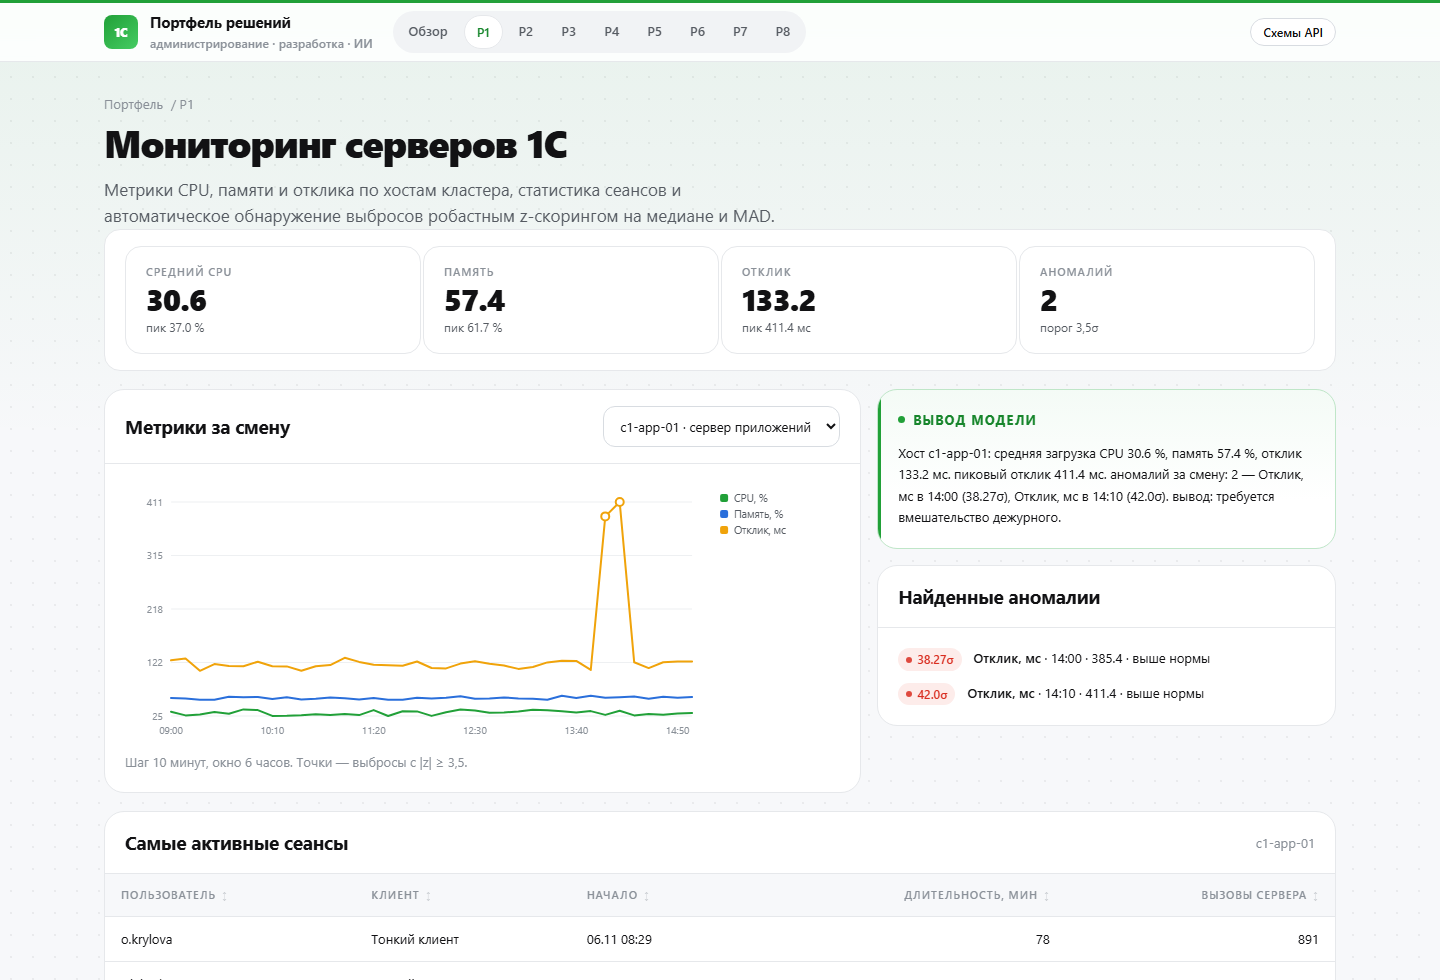
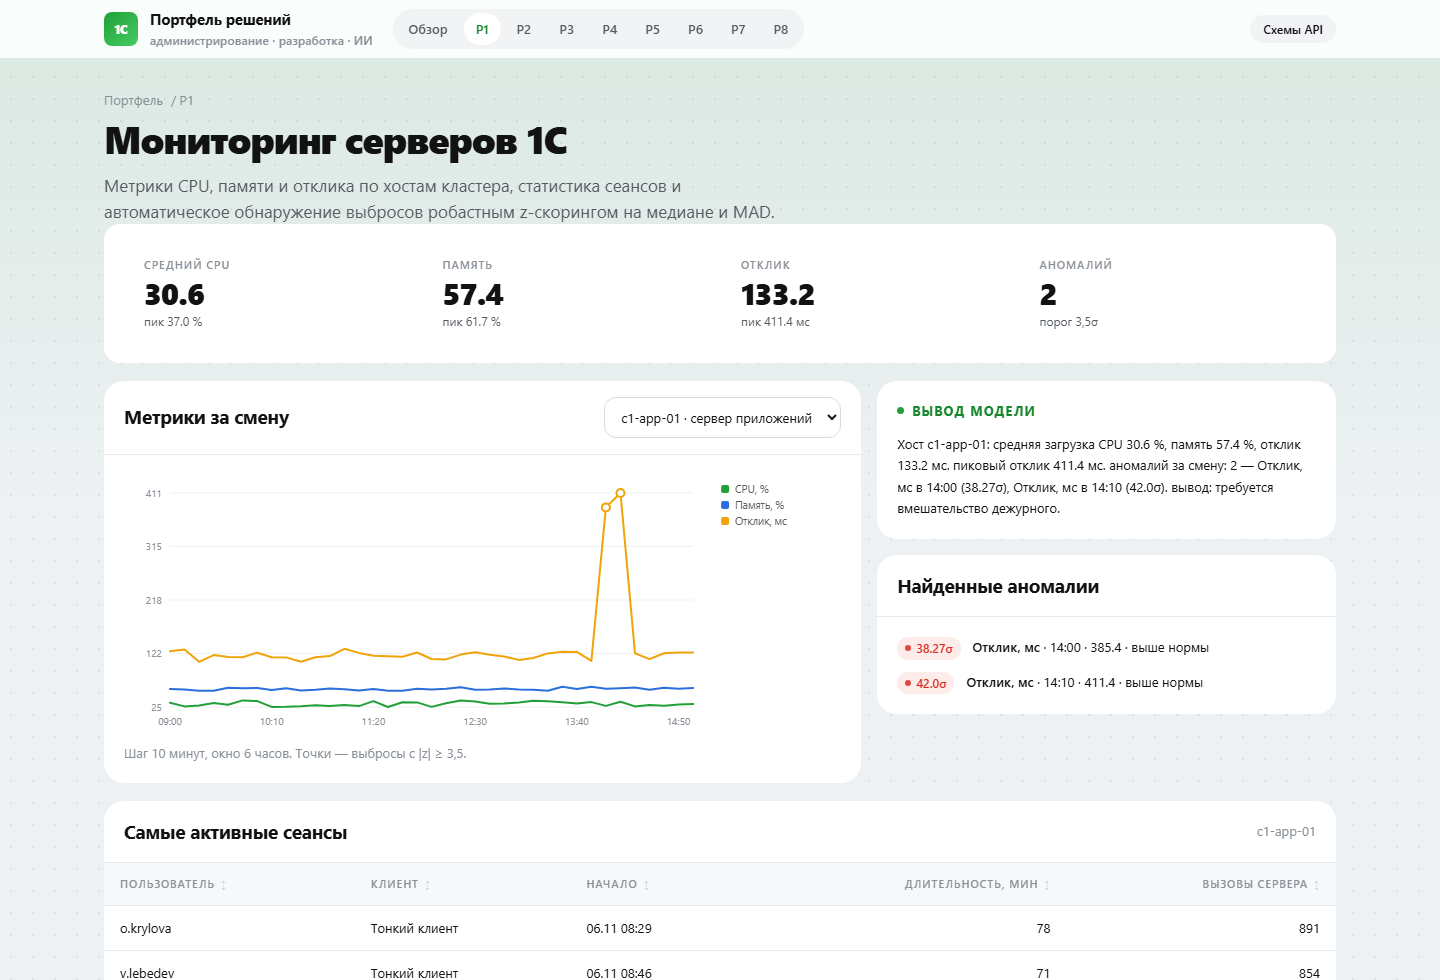
Плоские плашки без рамок и цветных полос, картинка-иллюстрация в герое, контрастный фон

diff --git a/static/css/sber.css b/static/css/sber.css
@@ -17,9 +17,9 @@ body {
   overflow-x: hidden;
   background-color: var(--bg);
   background-image:
-    linear-gradient(180deg, rgba(33, 160, 56, 0.07) 0, rgba(33, 160, 56, 0) 440px),
-    radial-gradient(rgba(8, 8, 8, 0.055) 1px, transparent 1px);
-  background-size: 100% 440px, 22px 22px;
+    linear-gradient(180deg, rgba(33, 160, 56, 0.1) 0, rgba(33, 160, 56, 0) 520px),
+    radial-gradient(rgba(8, 8, 8, 0.07) 1px, transparent 1px);
+  background-size: 100% 520px, 22px 22px;
   background-repeat: no-repeat, repeat;
   background-attachment: scroll, fixed;
 }
@@ -51,8 +51,6 @@ h1, h2, h3, h4, p, figure { margin: 0; }
   z-index: 50;
   background: rgba(255, 255, 255, 0.86);
   backdrop-filter: saturate(180%) blur(14px);
-  border-top: 3px solid var(--accent);
-  border-bottom: 1px solid var(--border);
 }
 
 .topbar-inner {
@@ -98,7 +96,7 @@ h1, h2, h3, h4, p, figure { margin: 0; }
   transition: background var(--dur-1) var(--ease), color var(--dur-1) var(--ease);
 }
 .nav a:hover { background: rgba(255, 255, 255, 0.9); color: var(--text); }
-.nav a.active { background: var(--card); color: var(--accent-strong); font-weight: var(--fw-semibold); border: 1px solid var(--border); }
+.nav a.active { background: var(--card); color: var(--accent-strong); font-weight: var(--fw-semibold); }
 
 .spacer { flex: 1; }
 
@@ -166,9 +164,15 @@ h1, h2, h3, h4, p, figure { margin: 0; }
 .hero .lead { font-size: var(--fs-lead); line-height: var(--lh-lead); color: var(--text-muted); max-width: 58ch; }
 
 .hero-side { display: grid; gap: var(--sp-2); }
+.hero-figure {
+  background: var(--card);
+  border-radius: var(--r-lg);
+  padding: var(--sp-3);
+  margin-bottom: var(--sp-2);
+}
+.hero-figure img { display: block; width: 100%; height: 190px; object-fit: contain; }
 .hero-note {
   background: var(--card);
-  border: 1px solid var(--border);
   border-radius: var(--r-md);
   padding: var(--sp-4) var(--sp-5);
   display: flex;
@@ -189,14 +193,13 @@ h1, h2, h3, h4, p, figure { margin: 0; }
 
 .card {
   background: var(--card);
-  border: 1px solid var(--border);
   border-radius: var(--r-lg);
   padding: var(--sp-5);
   display: block;
   color: inherit;
 }
-.card.link { transition: transform var(--dur-2) var(--ease), border-color var(--dur-2) var(--ease); }
-.card.link:hover { transform: translateY(-3px); border-color: var(--green-200); color: inherit; }
+.card.link { transition: transform var(--dur-2) var(--ease), background var(--dur-2) var(--ease); }
+.card.link:hover { transform: translateY(-3px); background: var(--card-hover); color: inherit; }
 .card.link:active { transform: translateY(-1px); }
 .card h3 { font-size: var(--fs-h3); line-height: var(--lh-h3); letter-spacing: var(--tr-h3); font-weight: var(--fw-bold); margin: var(--sp-3) 0 var(--sp-2); }
 .card p { color: var(--text-muted); font-size: var(--fs-small); line-height: var(--lh-small); }
@@ -215,7 +218,6 @@ h1, h2, h3, h4, p, figure { margin: 0; }
 
 .kpi {
   background: var(--card);
-  border: 1px solid var(--border);
   border-radius: var(--r-md);
   padding: var(--sp-4) var(--sp-5);
   display: grid;
@@ -251,11 +253,11 @@ h1, h2, h3, h4, p, figure { margin: 0; }
   border-radius: var(--r-pill);
   background: var(--surface-2);
   color: var(--text-muted);
-  border: 1px solid transparent;
+  border: none;
   white-space: nowrap;
 }
-.tag.green { background: var(--accent-soft); color: var(--accent-strong); border-color: var(--green-200); }
-.tag.dark { background: var(--ink-800); color: #fff; border-color: var(--ink-800); }
+.tag.green { background: var(--accent-soft); color: var(--accent-strong); }
+.tag.dark { background: var(--ink-800); color: #fff; }
 
 .chips { display: flex; gap: var(--sp-2); flex-wrap: wrap; }
 .chip {
@@ -263,15 +265,15 @@ h1, h2, h3, h4, p, figure { margin: 0; }
   font-size: var(--fs-small);
   font-weight: var(--fw-medium);
   color: var(--text-muted);
-  background: var(--card);
-  border: 1px solid var(--border);
+  background: var(--surface-2);
+  border: none;
   border-radius: var(--r-pill);
   padding: 6px var(--sp-3);
   cursor: pointer;
-  transition: border-color var(--dur-1) var(--ease), color var(--dur-1) var(--ease), background var(--dur-1) var(--ease);
+  transition: color var(--dur-1) var(--ease), background var(--dur-1) var(--ease);
 }
-.chip:hover { border-color: var(--border-strong); color: var(--text); }
-.chip.active { background: var(--accent-soft); border-color: var(--green-200); color: var(--accent-strong); }
+.chip:hover { background: #e8ebee; color: var(--text); }
+.chip.active { background: var(--accent-soft); color: var(--accent-strong); }
 .chip .chip-count { color: var(--text-soft); margin-left: 4px; font-variant-numeric: tabular-nums; }
 
 /* ── Статусы ───────────────────────────────────────────────── */
@@ -305,7 +307,6 @@ h1, h2, h3, h4, p, figure { margin: 0; }
 
 .panel {
   background: var(--card);
-  border: 1px solid var(--border);
   border-radius: var(--r-lg);
   overflow: hidden;
 }
@@ -377,8 +378,8 @@ td strong, td b { font-weight: var(--fw-semibold); }
 .btn:hover { background: var(--accent-strong); }
 .btn:active { transform: translateY(1px); }
 .btn[disabled] { opacity: 0.55; cursor: not-allowed; }
-.btn.ghost { background: var(--card); color: var(--text); border-color: var(--border-strong); }
-.btn.ghost:hover { background: var(--surface-1); border-color: var(--ink-300); }
+.btn.ghost { background: var(--surface-2); color: var(--text); border-color: transparent; }
+.btn.ghost:hover { background: #e8ebee; border-color: transparent; }
 .btn.subtle { background: var(--accent-soft); color: var(--accent-strong); }
 .btn.subtle:hover { background: var(--green-200); }
 .btn.sm { padding: 7px var(--sp-3); font-size: var(--fs-caption); }
@@ -416,13 +417,11 @@ textarea { resize: vertical; min-height: 108px; font-family: var(--font-mono); f
 
 .ai-block {
   position: relative;
-  background: linear-gradient(180deg, var(--green-050) 0%, var(--card) 70%);
-  border: 1px solid var(--green-200);
+  background: var(--card);
   border-radius: var(--r-lg);
   padding: var(--sp-5);
   overflow: hidden;
 }
-.ai-block::before { content: ""; position: absolute; inset: 0 auto 0 0; width: 3px; background: var(--accent); }
 .ai-block h3 {
   display: flex;
   align-items: center;
@@ -450,9 +449,10 @@ textarea { resize: vertical; min-height: 108px; font-family: var(--font-mono); f
 .list-clean li { display: flex; gap: var(--sp-3); align-items: flex-start; font-size: var(--fs-small); }
 .list-clean b { font-weight: var(--fw-semibold); }
 
-.result-item { border-left: 3px solid var(--accent); padding: 2px 0 2px var(--sp-3); margin-bottom: var(--sp-3); }
-.result-item.warn { border-color: var(--warn-600); }
-.result-item.risk { border-color: var(--risk-600); }
+.result-item { position: relative; padding: 2px 0 2px var(--sp-4); margin-bottom: var(--sp-3); }
+.result-item::before { content: ""; position: absolute; left: 0; top: 7px; width: 7px; height: 7px; border-radius: 50%; background: var(--accent); }
+.result-item.warn::before { background: var(--warn-600); }
+.result-item.risk::before { background: var(--risk-600); }
 .result-item:last-child { margin-bottom: 0; }
 .result-title { font-weight: var(--fw-semibold); font-size: var(--fs-small); }
 .result-text { color: var(--text-muted); font-size: var(--fs-small); }
@@ -487,8 +487,8 @@ textarea { resize: vertical; min-height: 108px; font-family: var(--font-mono); f
   animation: toast-in var(--dur-3) var(--ease);
   max-width: 360px;
 }
-.toast.ok { border-left: 3px solid var(--green-500); }
-.toast.risk { border-left: 3px solid var(--risk-600); }
+.toast.ok { color: #fff; }
+.toast.risk { color: #fff; }
 
 @keyframes toast-in { from { opacity: 0; transform: translateY(8px); } to { opacity: 1; transform: none; } }
 
@@ -563,7 +563,6 @@ textarea { resize: vertical; min-height: 108px; font-family: var(--font-mono); f
 .features { display: grid; grid-template-columns: repeat(auto-fit, minmax(256px, 1fr)); gap: var(--sp-3); }
 .feature {
   background: var(--card);
-  border: 1px solid var(--border);
   border-radius: var(--r-md);
   padding: var(--sp-4) var(--sp-5);
   display: grid;
@@ -584,14 +583,14 @@ textarea { resize: vertical; min-height: 108px; font-family: var(--font-mono); f
 .feature h3 { font-size: var(--fs-small); font-weight: var(--fw-bold); }
 .feature p { color: var(--text-muted); font-size: var(--fs-caption); line-height: 1.55; }
 
-.numbers { display: grid; grid-template-columns: repeat(auto-fit, minmax(180px, 1fr)); border: 1px solid var(--border); border-radius: var(--r-lg); overflow: hidden; background: var(--card); }
+.numbers { display: grid; grid-template-columns: repeat(auto-fit, minmax(180px, 1fr)); border-radius: var(--r-lg); overflow: hidden; background: var(--card); }
 .number-item { padding: var(--sp-5); border-right: 1px solid var(--border); }
 .number-item:last-child { border-right: none; }
 .number-value { font-size: var(--fs-h2); font-weight: var(--fw-black); letter-spacing: var(--tr-h2); font-variant-numeric: tabular-nums; }
 .number-label { color: var(--text-soft); font-size: var(--fs-caption); margin-top: var(--sp-1); }
 
 .steps { display: grid; grid-template-columns: repeat(auto-fit, minmax(240px, 1fr)); gap: var(--sp-3); }
-.step { border: 1px solid var(--border); border-radius: var(--r-md); padding: var(--sp-5); background: var(--card); }
+.step { border-radius: var(--r-md); padding: var(--sp-5); background: var(--card); }
 .step-num { font-size: var(--fs-overline); font-weight: var(--fw-bold); color: var(--accent-strong); letter-spacing: var(--tr-overline); text-transform: uppercase; }
 .step h3 { margin: var(--sp-2) 0; font-size: var(--fs-h3); }
 .step p { color: var(--text-muted); font-size: var(--fs-small); line-height: 1.55; }

diff --git a/templates/landing.html b/templates/landing.html
@@ -18,6 +18,9 @@
     </div>
   </div>
   <div class="hero-side">
+    <figure class="hero-figure">
+      <img src="/static/img/hero-flat.svg" alt="Поток документов: проверка реквизитов, разбор и отчёт" width="560" height="320">
+    </figure>
     <div class="hero-note"><b>Модулей</b><span>{{ stats.projects }}</span></div>
     <div class="hero-note"><b>Метрик в базе</b><span>{{ stats.metrics|spaces }}</span></div>
     <div class="hero-note"><b>Записей в контуре</b><span>{{ stats.rows|spaces }}</span></div>

diff --git a/static/css/tokens.css b/static/css/tokens.css
@@ -33,8 +33,9 @@
   --info-100: #ecf1fc;
 
   /* Семантика поверхностей */
-  --bg: var(--surface-1);
+  --bg: #eef1f4;
   --card: var(--surface-0);
+  --card-hover: #fbfcfc;
   --text: var(--ink-800);
   --text-muted: var(--ink-500);
   --text-soft: var(--ink-400);
